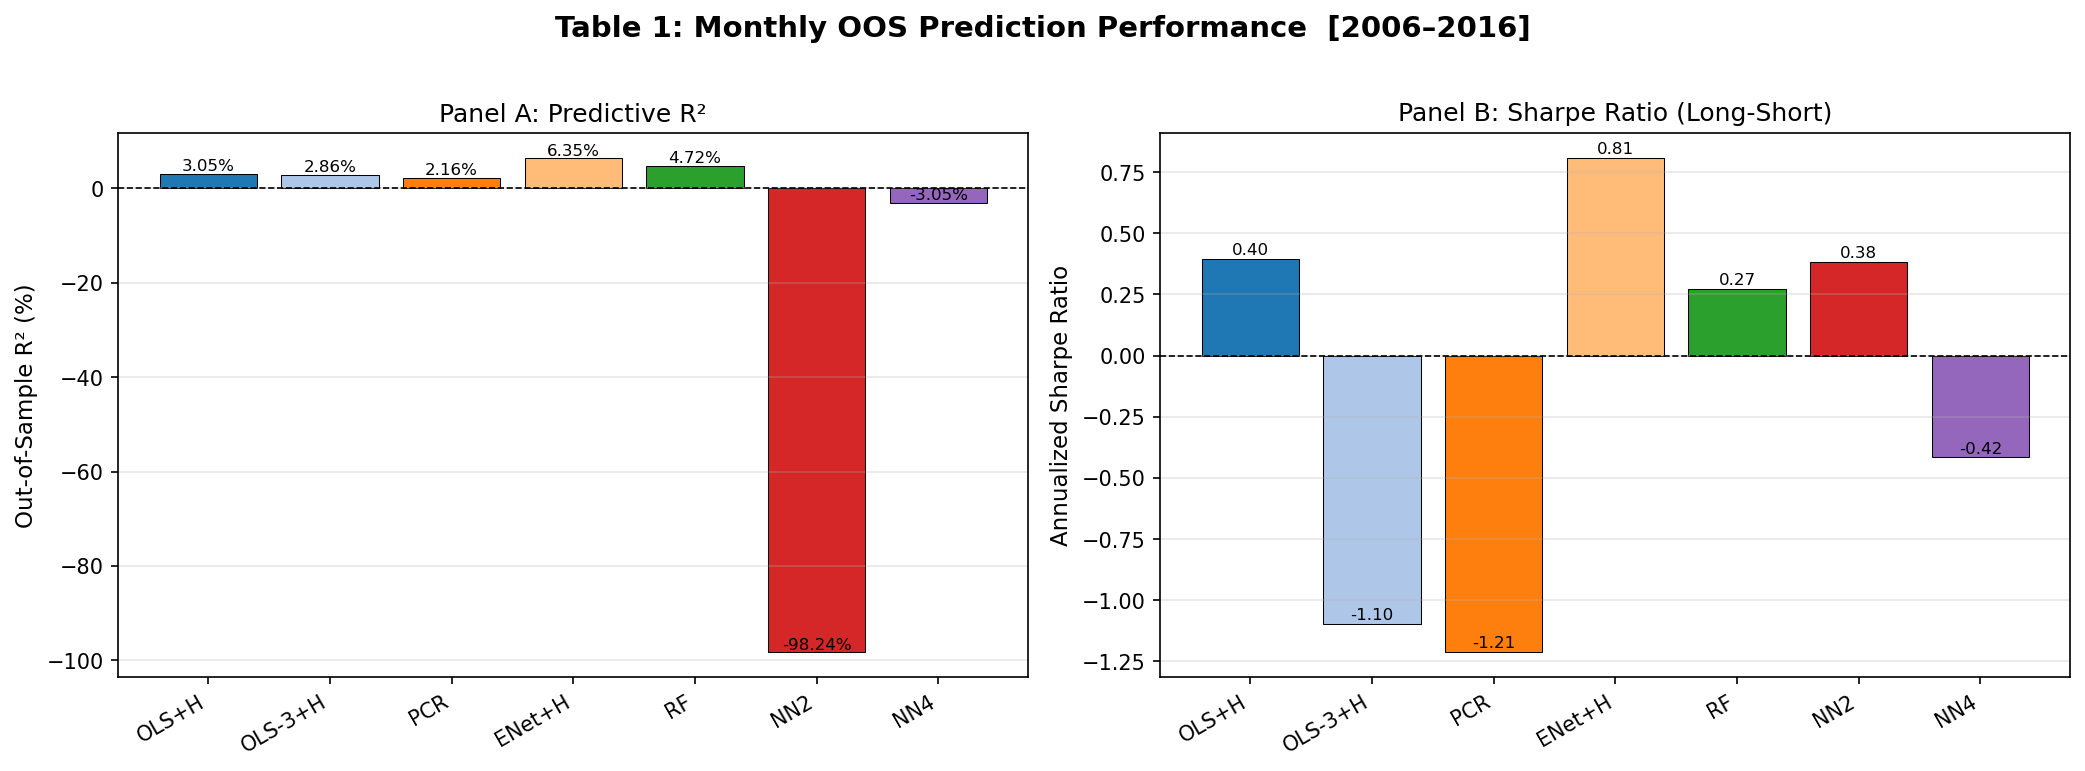
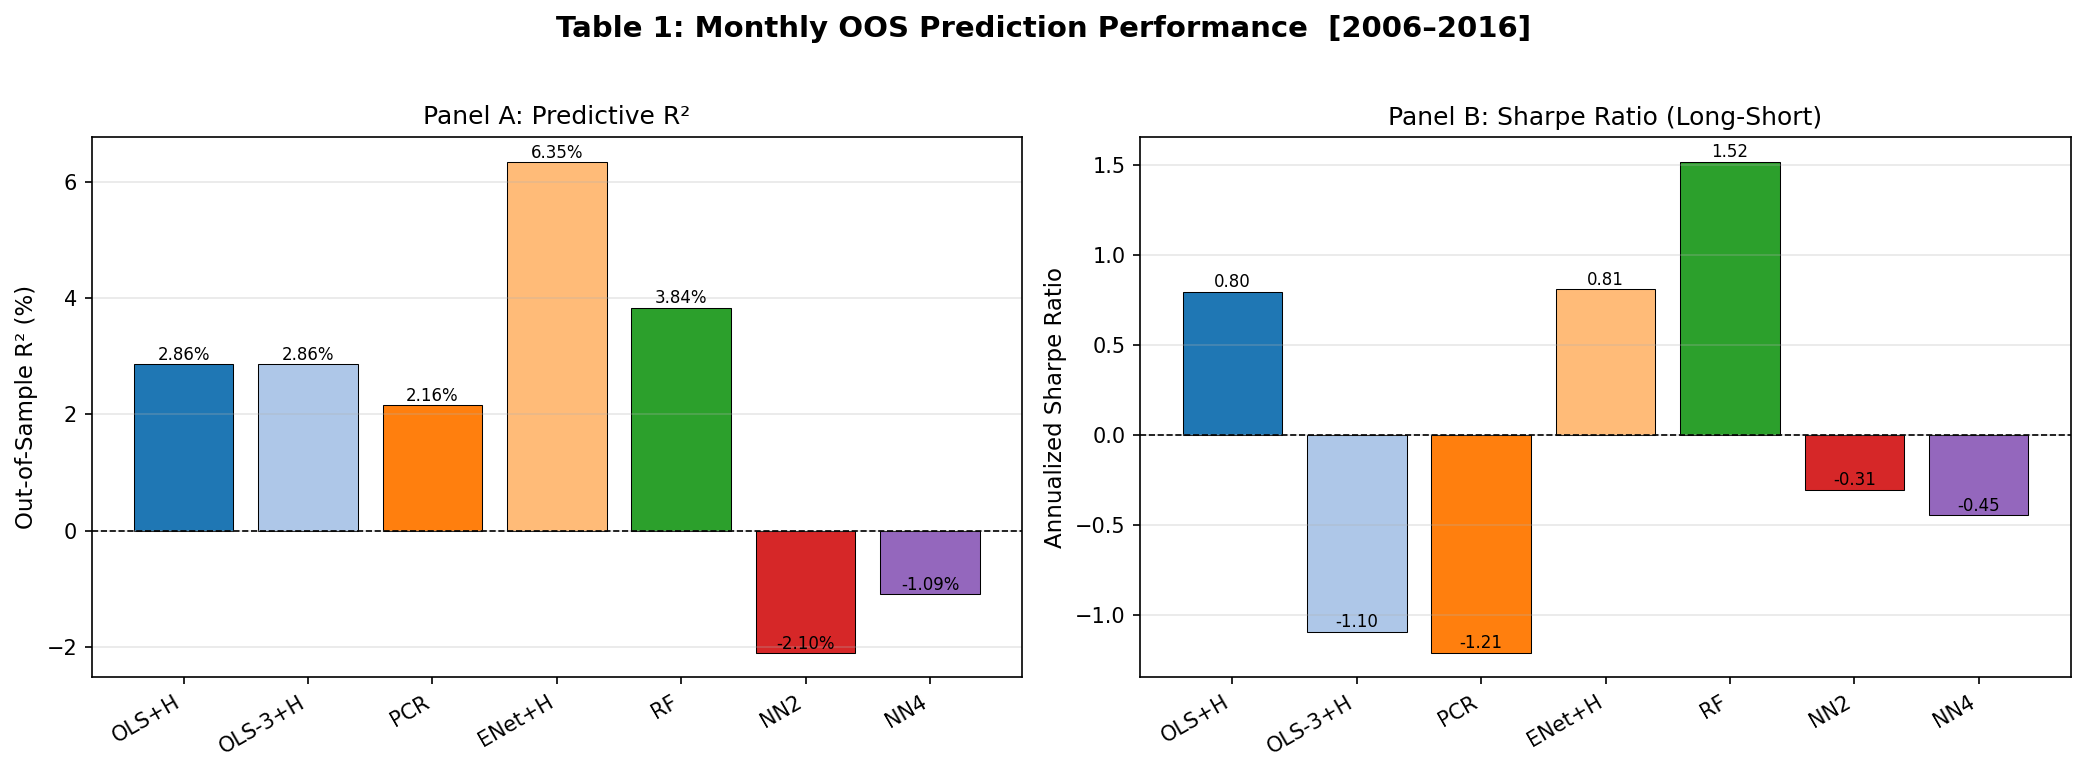
.

diff --git a/results/tables/table1_2006_2025.tex b/results/tables/table1_2006_2025.tex
@@ -1,0 +1,14 @@
+\begin{tabular}{lrrrrrrr}
+\toprule
+ & OOS R² (%) & Mean Ret (%) & Std (%) & Sharpe & t-stat & Max DD (%) & Skew \\
+Model &  &  &  &  &  &  &  \\
+\midrule
+ENet+H & -56.680 & 116.441 & 49.355 & 2.359 & 7.825 & -42.802 & 0.855 \\
+NN2 & 17.344 & 176.751 & 76.241 & 2.318 & 8.031 & -15.396 & 2.452 \\
+NN4 & 15.840 & 184.326 & 79.737 & 2.312 & 8.008 & -20.615 & 2.554 \\
+OLS+H & 19.404 & 172.098 & 54.563 & 3.154 & 10.926 & -18.973 & 0.962 \\
+OLS-3+H & 1.806 & -1.055 & 28.254 & -0.037 & -0.129 & -78.484 & -0.919 \\
+PCR & 5.063 & 94.814 & 35.969 & 2.636 & 9.131 & -46.314 & 0.484 \\
+RF & 13.663 & 180.356 & 66.720 & 2.703 & 9.364 & -31.011 & 0.822 \\
+\bottomrule
+\end{tabular}

diff --git a/results/tables/table1_2006_2016.tex b/results/tables/table1_2006_2016.tex
@@ -3,12 +3,12 @@
  & OOS R² (%) & Mean Ret (%) & Std (%) & Sharpe & t-stat & Max DD (%) & Skew \\
 Model &  &  &  &  &  &  &  \\
 \midrule
-ENet+H & 6.346 & 14.433 & 17.890 & 0.807 & 1.614 & -15.365 & 0.271 \\
-NN2 & -98.239 & 4.149 & 10.839 & 0.383 & 0.766 & -24.439 & 0.954 \\
-NN4 & -3.045 & -4.215 & 10.127 & -0.416 & -0.832 & -27.160 & -1.009 \\
-OLS+H & 3.054 & 4.393 & 11.077 & 0.397 & 0.793 & -17.272 & -0.304 \\
+ENet+H & 6.349 & 14.471 & 17.896 & 0.809 & 1.617 & -15.397 & 0.270 \\
+NN2 & -2.104 & -3.184 & 10.336 & -0.308 & -0.616 & -22.157 & -1.219 \\
+NN4 & -1.093 & -5.023 & 11.217 & -0.448 & -0.896 & -26.607 & -1.244 \\
+OLS+H & 2.858 & 8.569 & 10.767 & 0.796 & 1.592 & -12.680 & 0.148 \\
 OLS-3+H & 2.863 & -24.910 & 22.720 & -1.096 & -2.193 & -66.615 & -0.875 \\
 PCR & 2.159 & -14.041 & 11.589 & -1.212 & -2.423 & -43.848 & 0.415 \\
-RF & 4.721 & 4.232 & 15.537 & 0.272 & 0.545 & -23.508 & -0.536 \\
+RF & 3.837 & 20.289 & 13.356 & 1.519 & 3.038 & -10.188 & 0.062 \\
 \bottomrule
 \end{tabular}